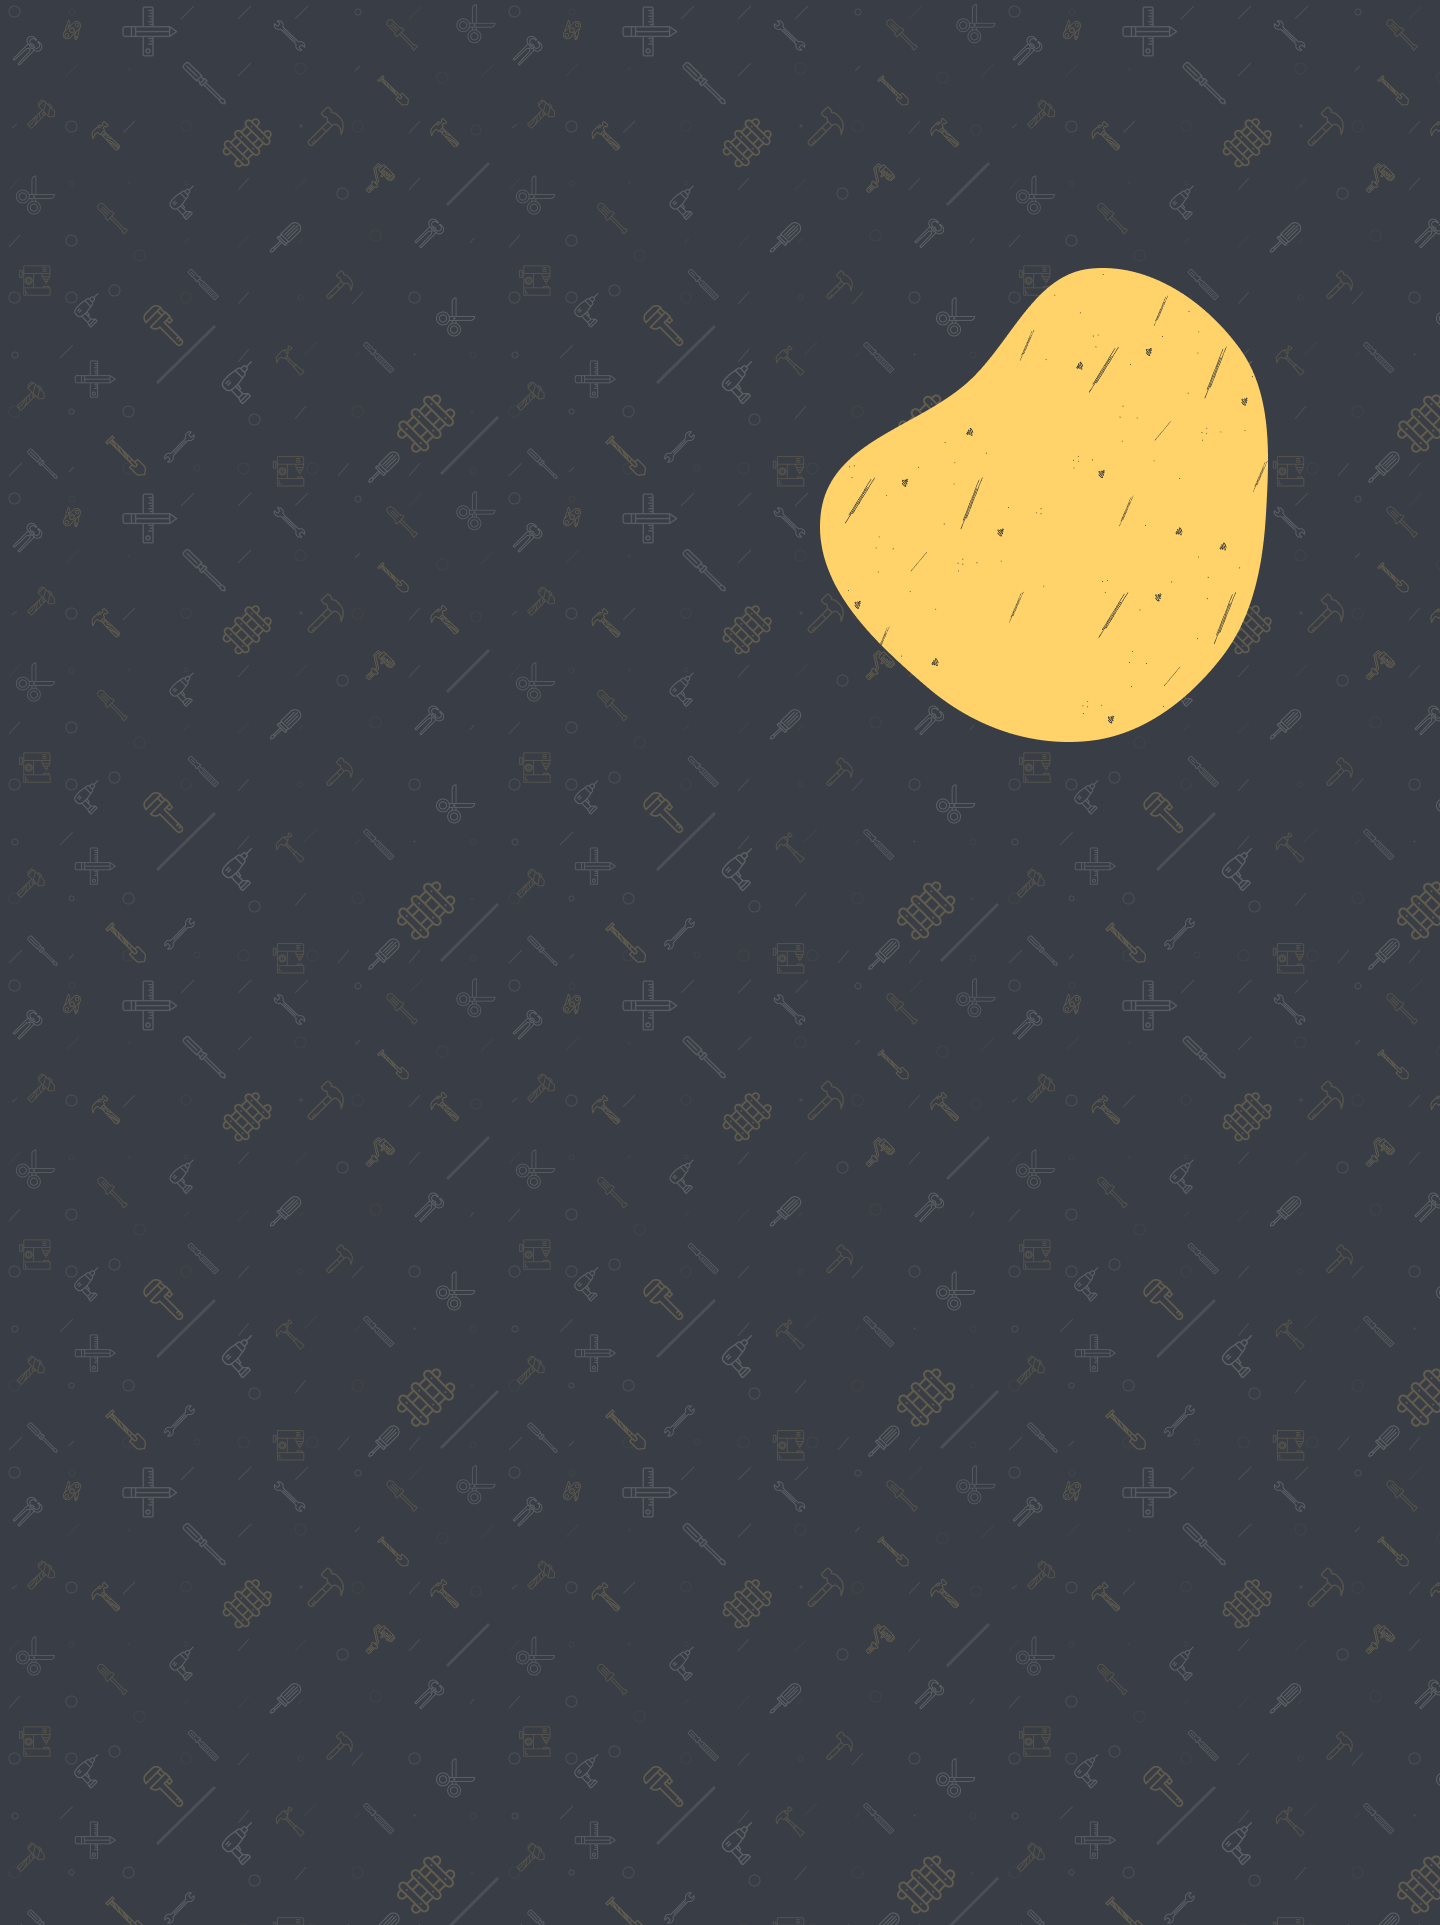
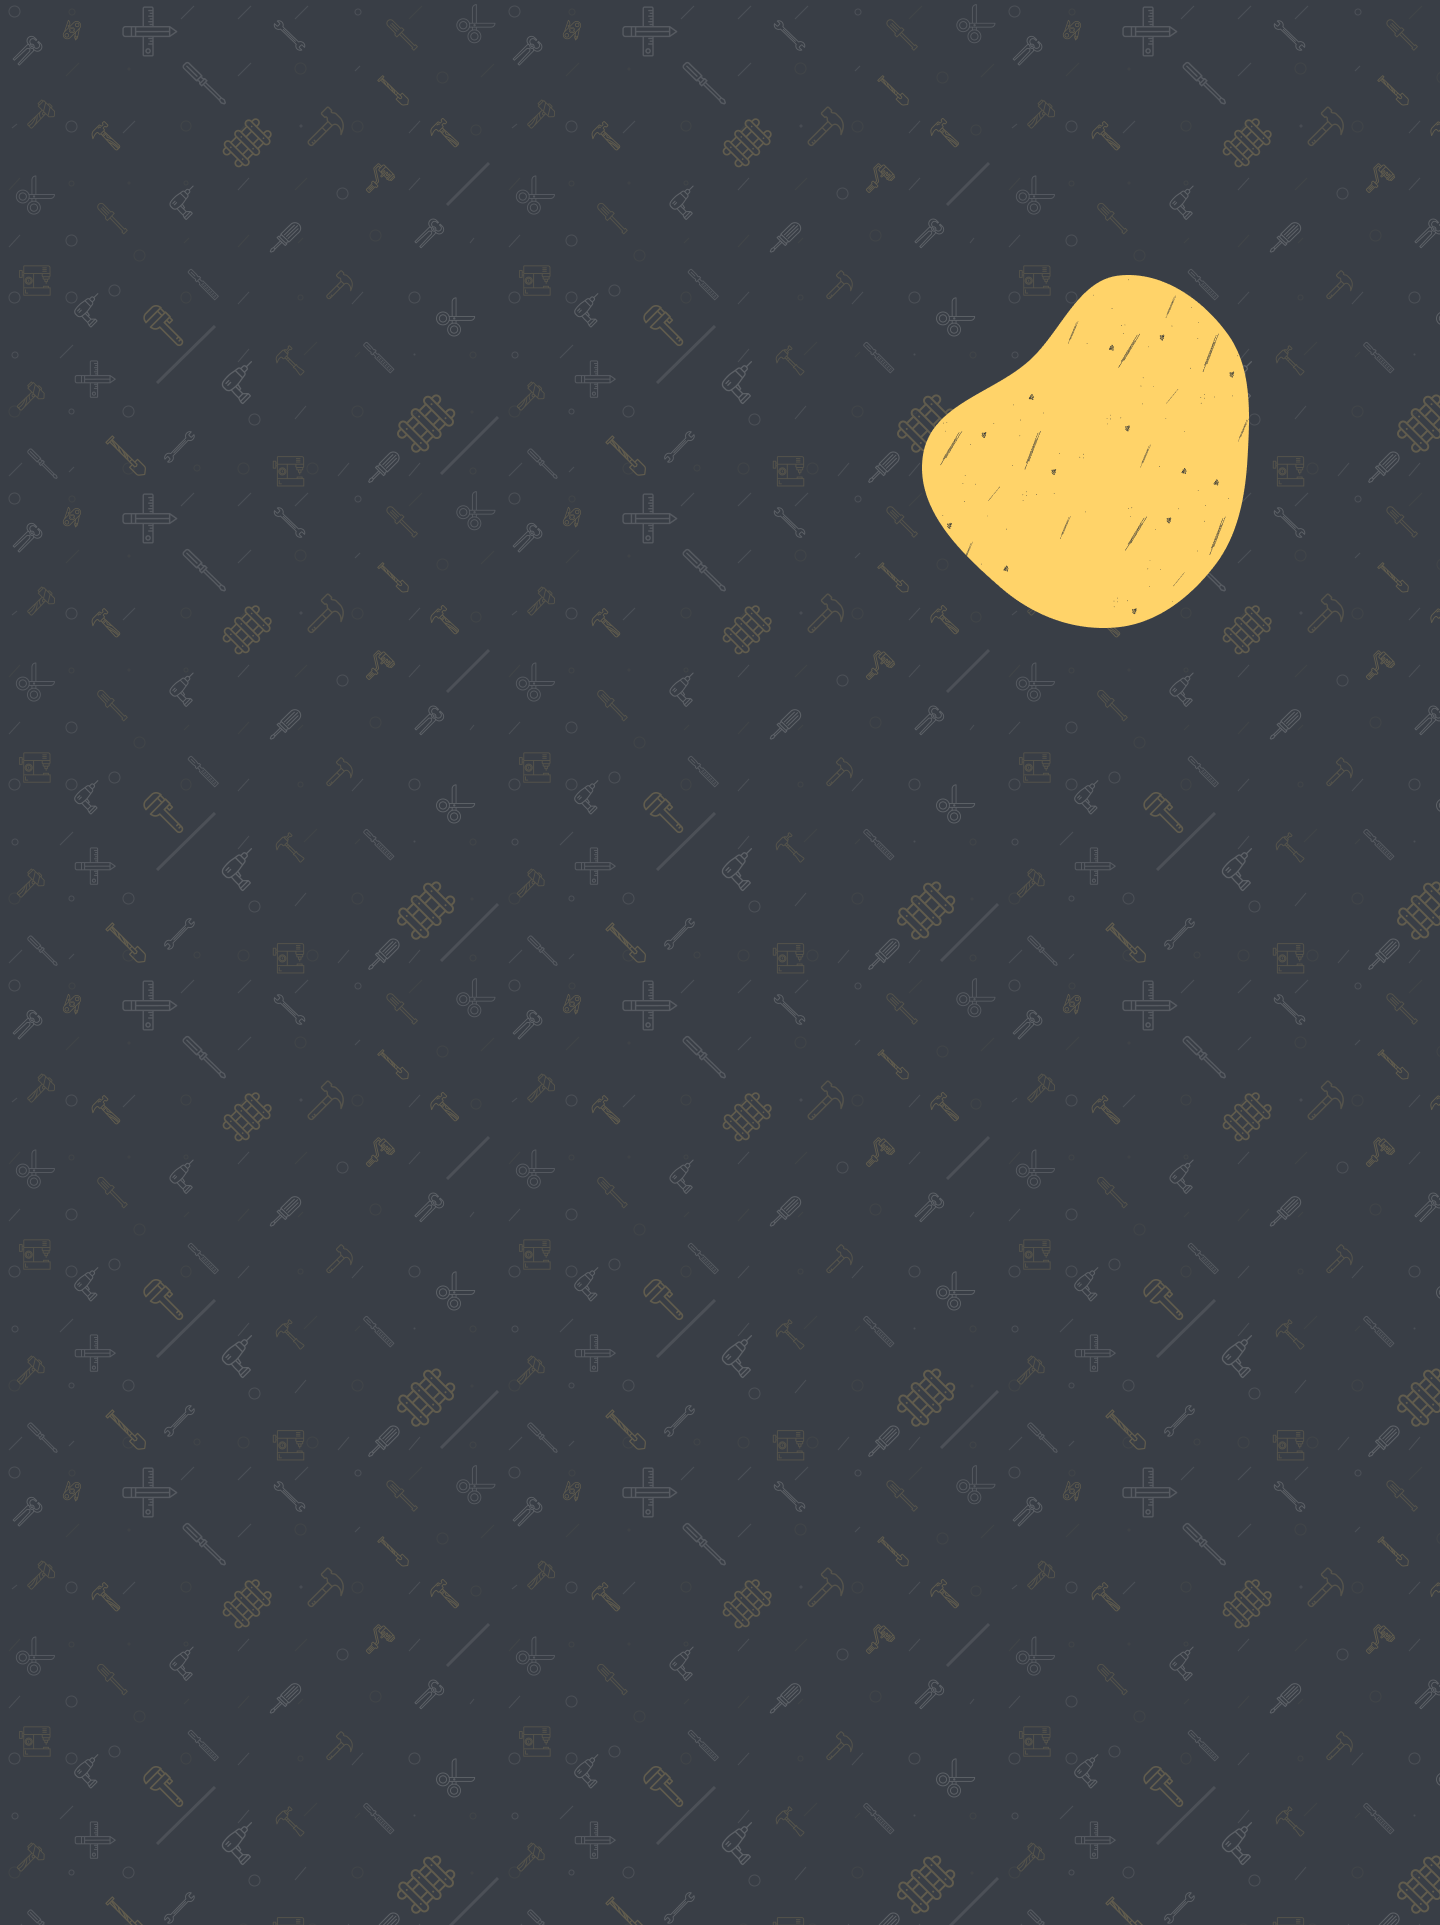
fixing some css in  landing page

Changed region(s): [[0.5625, 0.1247, 0.9062, 0.4052]]

diff --git a/public/styles/landing.css b/public/styles/landing.css
@@ -1,12 +1,20 @@
 body {
-  background-image: url("../images/landing.png");
+  /* background-image: url("../images/landing.png"); */
   background-size: cover;
+  /* background-attachment: fixed; */
 }
 
-/* main {
+main {
+  background-image: url("../images/yellow-mark.png");
+  background-repeat: no-repeat;
+  /* background-position: 975px 50px; */
+  background-position: 60.9rem 3.125rem;
+  /* background-size: 450px; */
+  background-size: 28.125rem;
+  margin: 0 auto;
   display: flex;
   flex-direction: column;
-} */
+}
 
 h1 {
   font-size: 90px;
@@ -64,6 +72,7 @@ ul {
 
 #content {
   padding-right: 7rem;
+  margin-top: -10rem;
 }
 
 #content button {
@@ -71,21 +80,19 @@ ul {
 }
 
 #description {
-  width: 100%;
-  margin: 4rem auto 0 auto;
+
+  width: 70rem;
+  margin: 5rem auto 0 auto;
   display: flex;
   flex-direction: row;
-  justify-content: space-between;
+  justify-content: space-around;
 }
 
-#description img {
-  margin-top: 1rem;
-  width: 28rem;
-  height: 20rem;
+img {
+  width: 31.5rem;
+  height: 22.5rem;
   object-fit: cover;
   border-radius: 50px;
-}
-
-#img {
   margin-top: 2.5rem;
+  margin-bottom: -1rem;
 }

diff --git a/public/styles/base.css b/public/styles/base.css
@@ -33,7 +33,7 @@ body {
 
 main {
   width: 90%;
-  max-width: 50rem;
+  /* max-width: 50rem; */
   margin: 0 auto;
 }
 
